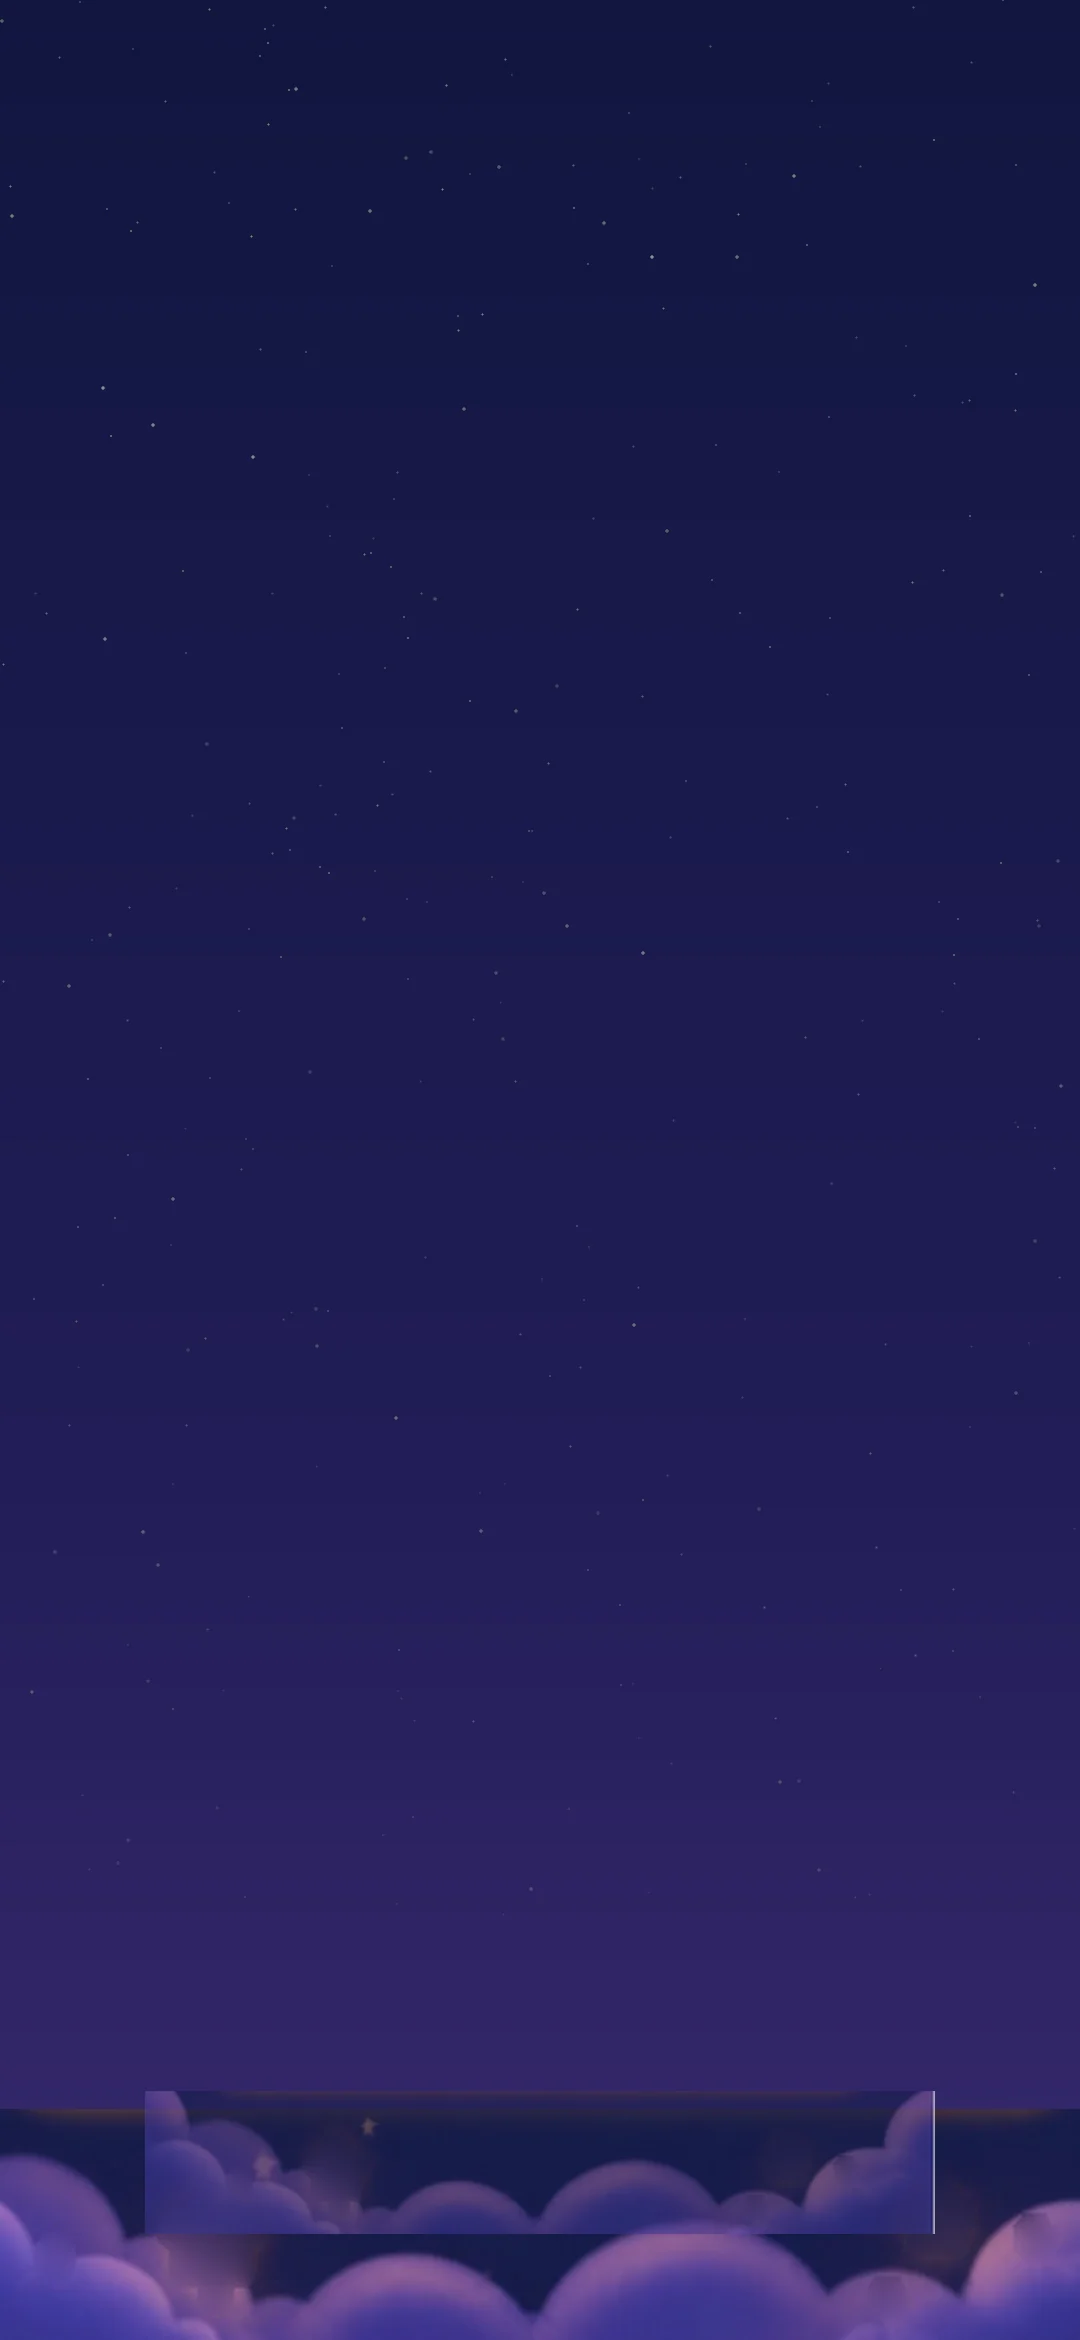
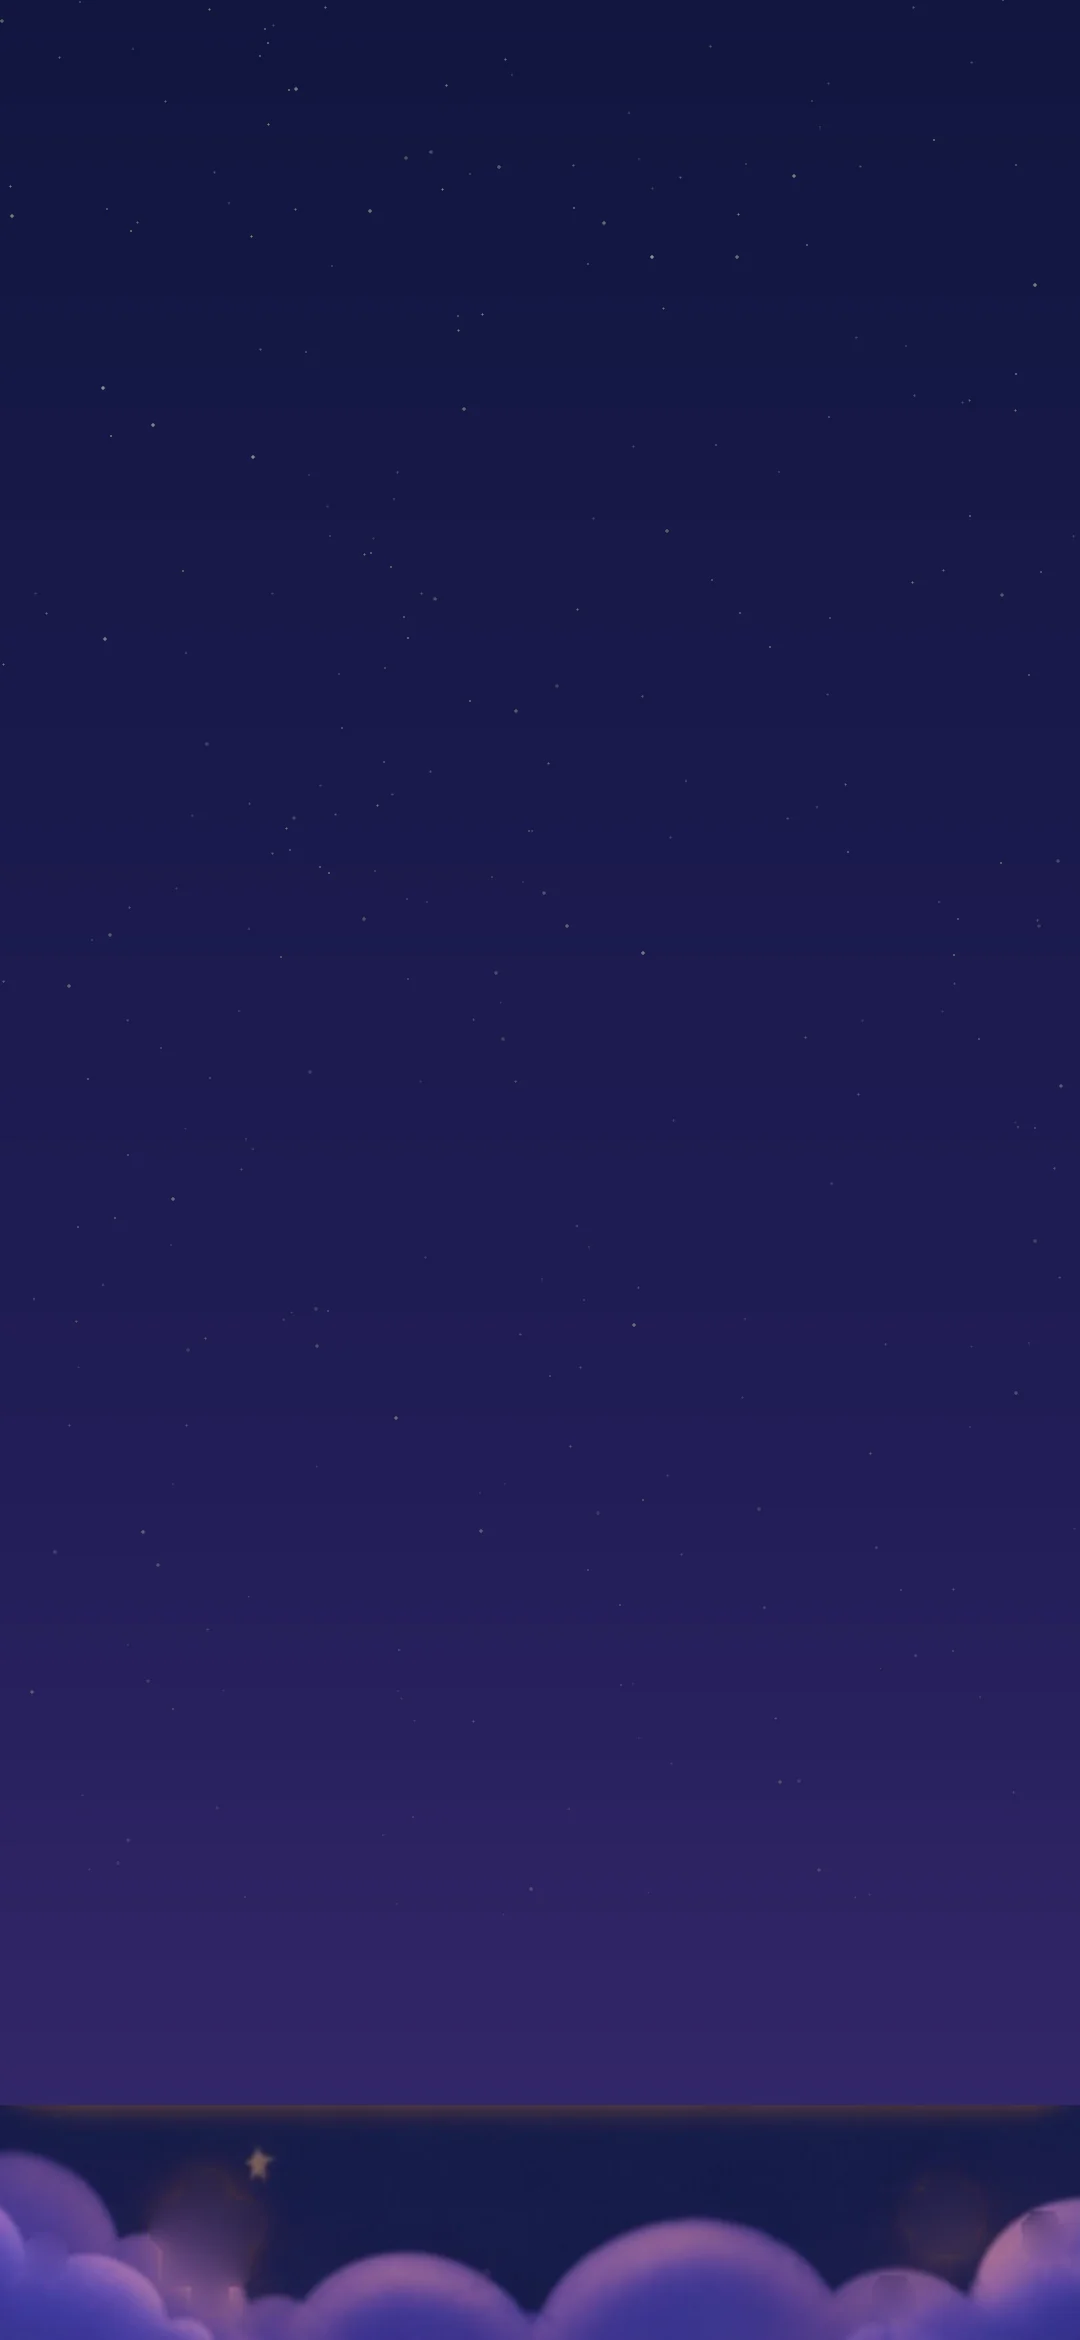
Take everything off the menu and give the screens their colour back
Two things sat over the clouds behind the tab bar. The backdrop composited the
cloud band twice at different scales, and the smaller pass sat slightly above
the larger one, so its edge read as a second picture laid across the menu -
one bank now. And the bar itself carried a rise of navy to keep its labels
readable, which drew a visible line across the clouds; the labels keep their
shadow instead, which does the same work and draws nothing.

The screens had gone flat. Making them translucent for the sky dropped them to
grey glass and took the colour out of every page in the app. They are
translucent and purple again - lit panels with the sky behind them rather than
panes of nothing.

diff --git a/styles.css b/styles.css
@@ -5751,7 +5751,7 @@ body.night-mode::before {
   z-index: -1;
   inset: 0;
   background:
-    url("./assets/screen-clouds.webp?v=2026100868") center bottom / cover no-repeat,
+    url("./assets/screen-clouds.webp?v=2026100869") center bottom / cover no-repeat,
     linear-gradient(180deg, #11163f 0%, #211d56 62%, #392a70 100%);
   pointer-events: none;
 }
@@ -5759,12 +5759,13 @@ body.night-mode::before {
 /* The screens let it through. They were opaque panels, which turned the sky
    into a border around them. */
 body.night-mode .screen {
-  border-color: rgba(236, 226, 255, 0.2);
-  background: linear-gradient(160deg, rgba(27, 32, 84, 0.72), rgba(44, 36, 100, 0.68));
+  border-color: rgba(236, 226, 255, 0.26);
+  /* Translucent, but still the lit purple the screens had before the sky went
+     behind them. Dropping to flat glass took the colour out of every page. */
+  background: linear-gradient(150deg, rgba(33, 42, 101, 0.9), rgba(60, 46, 118, 0.86) 56%, rgba(82, 56, 128, 0.84));
   box-shadow:
-    inset 0 1px 0 rgba(255, 255, 255, 0.08),
-    0 26px 70px rgba(7, 9, 36, 0.3);
-  backdrop-filter: blur(2px);
+    inset 0 1px 0 rgba(255, 255, 255, 0.12),
+    0 26px 70px rgba(7, 9, 36, 0.34);
 }
 
 /* The bar stops being a panel. No fill, no border, no shadow - just the five
@@ -5776,7 +5777,11 @@ body.night-mode .app-tabbar,
   border-radius: 0;
   outline: 0;
   padding-top: 10px;
-  background: linear-gradient(180deg, rgba(17, 20, 58, 0) 0%, rgba(17, 20, 58, 0.34) 46%, rgba(17, 20, 58, 0.62) 100%);
+  /* Nothing over the clouds at all. The navy rise that used to be here made a
+     visible edge across them, which read as a second picture laid on the menu;
+     the labels keep their shadow instead, which does the same job and draws no
+     line. */
+  background: none;
   box-shadow: none;
   backdrop-filter: none;
 }

diff --git a/index.html b/index.html
@@ -22,7 +22,7 @@
       href="https://fonts.googleapis.com/css2?family=Baloo+2:wght@600;700&family=Nunito:wght@400;600;700;800&display=swap"
       rel="stylesheet"
     />
-    <link rel="stylesheet" href="./styles.css?v=2026100868" />
+    <link rel="stylesheet" href="./styles.css?v=2026100869" />
   </head>
   <body class="home-active night-mode">
     <svg class="art-defs" width="0" height="0" aria-hidden="true" focusable="false">
@@ -1059,6 +1059,6 @@
       window.DREAMSCAPES_REVENUECAT_ANDROID_KEY = "goog_uQDLpGdzwbNFwBTAjvfdvyQOlqQ";
     </script>
     <script src="./assets/supabase.js"></script>
-    <script src="./app.js?v=2026100868"></script>
+    <script src="./app.js?v=2026100869"></script>
   </body>
 </html>
